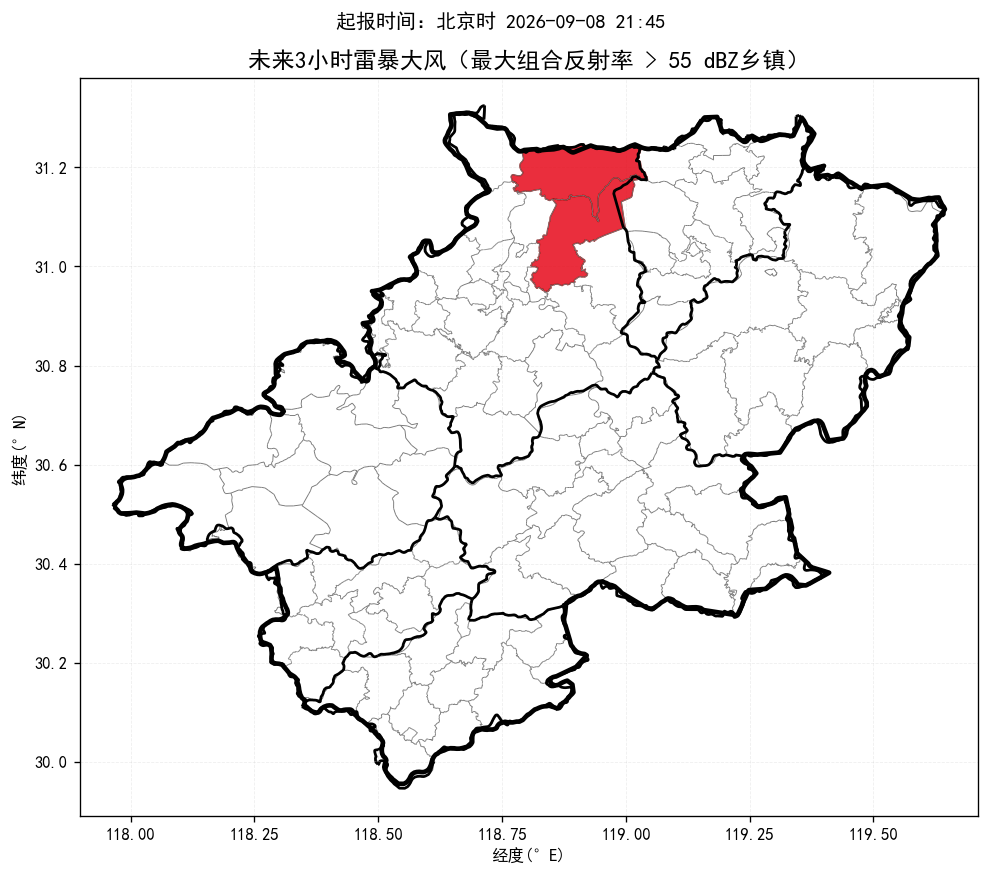
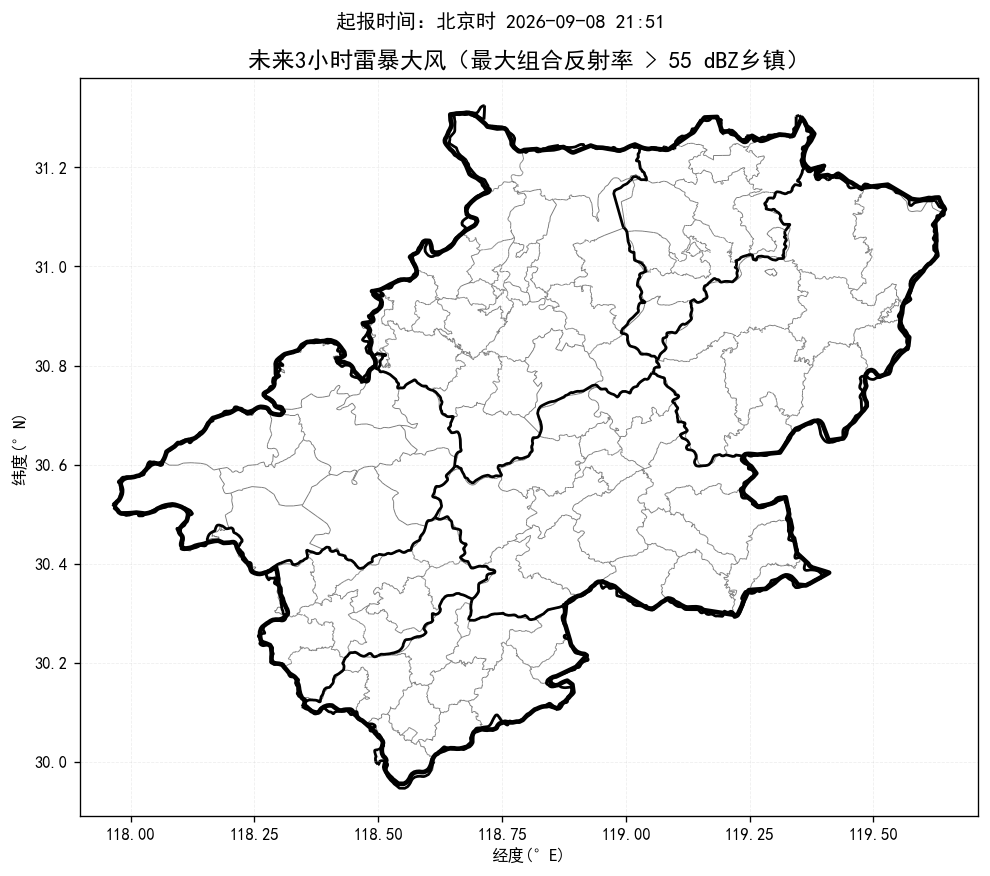
update nowcast products

Changed region(s): [[0.5152, 0.1541, 0.6667, 0.339], [0.6364, 0.0, 0.6667, 0.0308]]

diff --git a/index.html b/index.html
@@ -14,14 +14,14 @@ img.product{display:block;width:100%;height:auto;margin:10px auto 26px;border:1p
 .footer{font-size:13px;color:#777;text-align:center;margin-top:30px}
 @media(max-width:700px){.sheet{margin:0;padding:18px 15px}.alert-title{font-size:22px}.county-line{font-size:17px}.prob{font-size:18px}}
 </style></head><body><main class="sheet">
-<div class="time">起报时间：北京时 2026-09-08 21:45</div>
+<div class="time">起报时间：北京时 2026-09-08 21:51</div>
 <div class="alert-title">未来一小时降水量超过 20 毫米的乡镇：</div><div class="county-line">宣州区：狸桥镇、沈村镇</div>
 <div class="alert-title">未来三小时降水量超过 50 毫米的乡镇：</div><div class="county-line">无</div>
-<div class="alert-title">未来三小时雷暴大风（组合反射率 > 55 dBZ）的乡镇：</div><div class="county-line">宣州区：沈村镇、狸桥镇</div>
-<div class="prob">最大降水量概率预估：宣城市范围内未来三小时累计降水达到50毫米概率约26%，达到80毫米概率约2%，达到100毫米概率约0%。</div>
-<div class="section-title">未来降水预报图：</div><img class="product auto-refresh-product" data-src="短临降水预报.png" src="短临降水预报.png?v=20260908215121" alt="未来降水预报图">
-<div class="section-title">未来三小时组合反射率图：</div><img class="product auto-refresh-product" data-src="未来3小时组合反射率.png" src="未来3小时组合反射率.png?v=20260908215121" alt="未来三小时组合反射率图">
-<div class="section-title">未来三小时雷暴大风图：</div><img class="product auto-refresh-product" data-src="未来3小时雷暴大风.png" src="未来3小时雷暴大风.png?v=20260908215121" alt="未来三小时雷暴大风图">
+<div class="alert-title">未来三小时雷暴大风（组合反射率 > 55 dBZ）的乡镇：</div><div class="county-line">无</div>
+<div class="prob">最大降水量概率预估：宣城市范围内未来三小时累计降水达到50毫米概率约0%，达到80毫米概率约0%，达到100毫米概率约0%。</div>
+<div class="section-title">未来降水预报图：</div><img class="product auto-refresh-product" data-src="短临降水预报.png" src="短临降水预报.png?v=20260908215700" alt="未来降水预报图">
+<div class="section-title">未来三小时组合反射率图：</div><img class="product auto-refresh-product" data-src="未来3小时组合反射率.png" src="未来3小时组合反射率.png?v=20260908215700" alt="未来三小时组合反射率图">
+<div class="section-title">未来三小时雷暴大风图：</div><img class="product auto-refresh-product" data-src="未来3小时雷暴大风.png" src="未来3小时雷暴大风.png?v=20260908215700" alt="未来三小时雷暴大风图">
 <div class="footer">三张产品图每 60 秒自动刷新一次；每次请求自动附加新的URL参数以绕过缓存。</div>
 <script>
 (function() {
